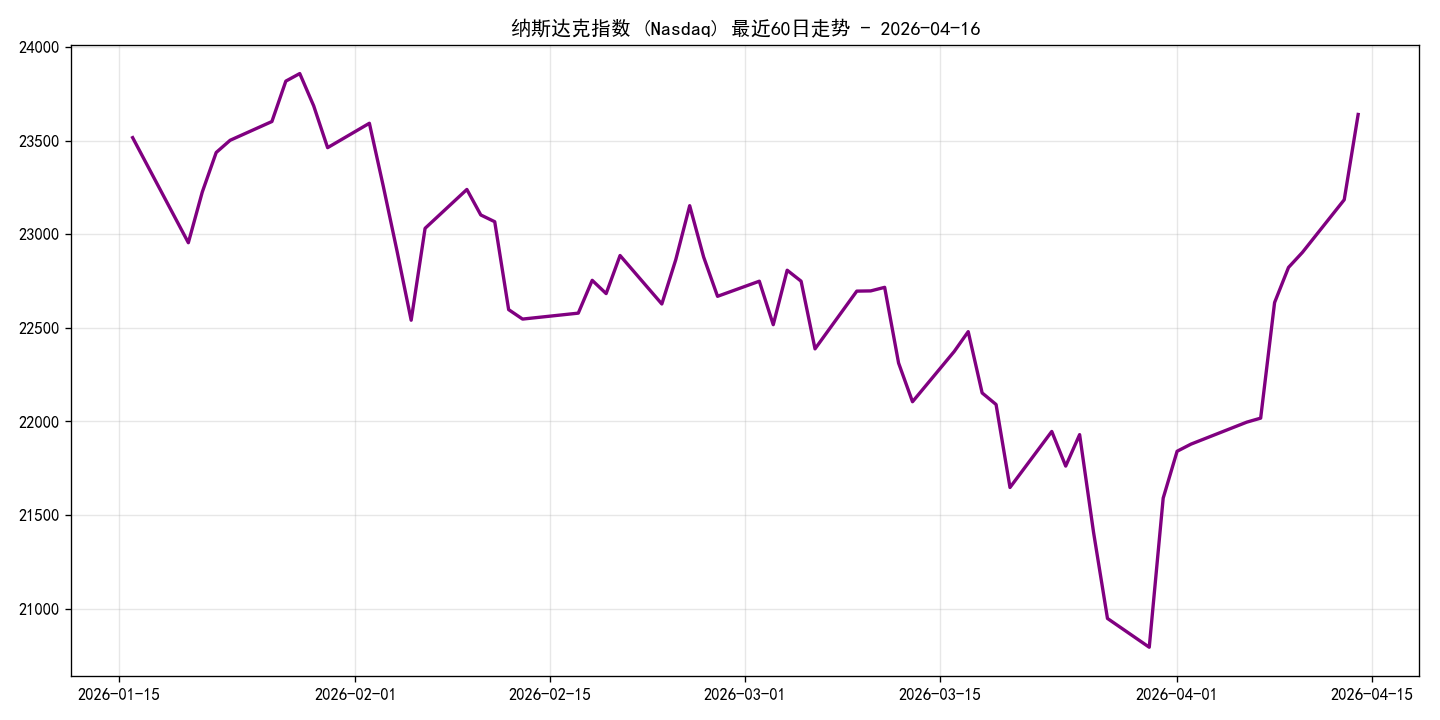
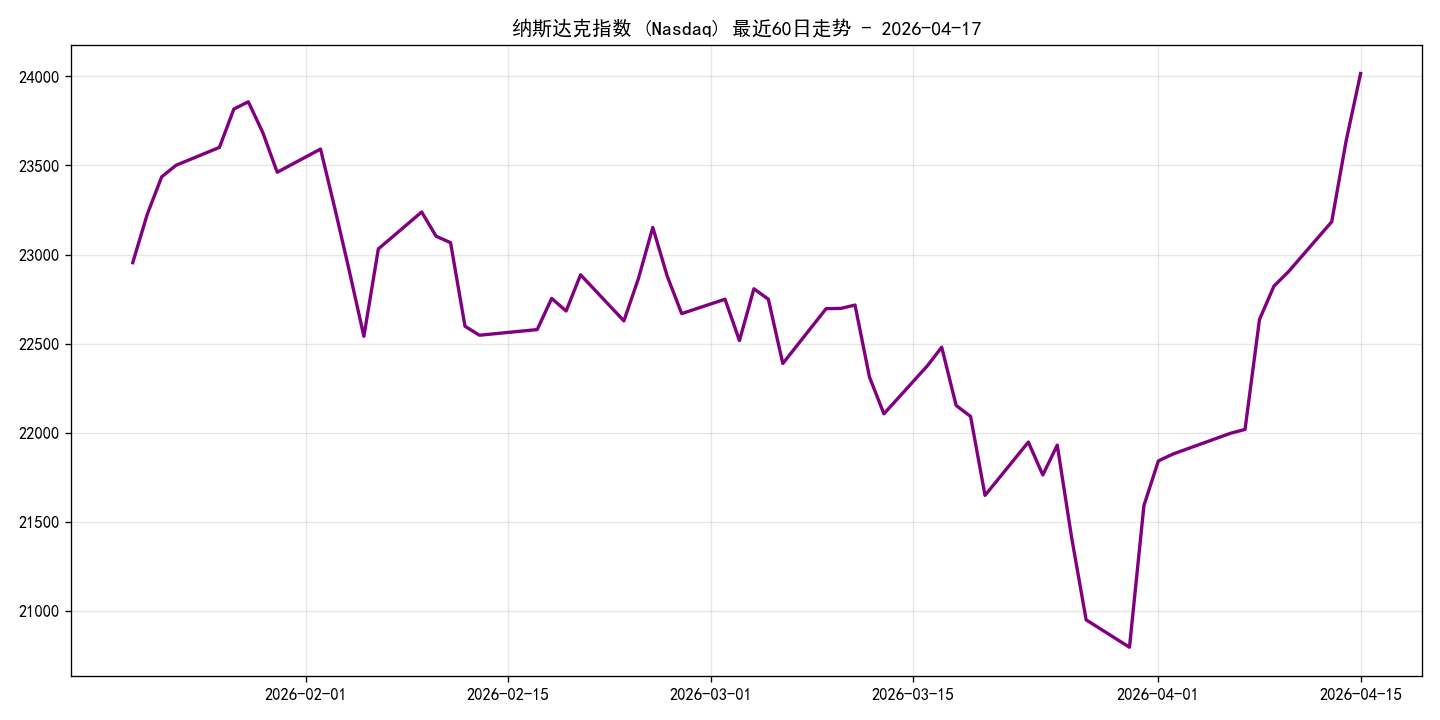
Auto: Daily US-share Recap Update 2026-04-16

diff --git a/usshare_recap.html b/usshare_recap.html
@@ -3,7 +3,7 @@
 <head>
     <meta charset="UTF-8">
     <meta name="viewport" content="width=device-width, initial-scale=1.0">
-    <title>美股收盘复盘 - 2026-04-16</title>
+    <title>美股收盘复盘 - 2026-04-17</title>
     <style>
         body { font-family: sans-serif; padding: 20px; line-height: 1.6; max-width: 800px; margin: 0 auto; background: #f9f9f9; }
         .card { background: white; padding: 20px; border-radius: 12px; shadow: 0 4px 10px rgba(0,0,0,0.1); }
@@ -15,10 +15,10 @@
 </head>
 <body>
     <div class="card">
-        <h1>美股收盘复盘 (2026-04-16)</h1>
+        <h1>美股收盘复盘 (2026-04-17)</h1>
         <div class="stat">
-            纳斯达克 (Nasdaq)：23639.08 
-            <span class="up">(+1.96%)</span>
+            纳斯达克 (Nasdaq)：24016.02 
+            <span class="up">(+1.59%)</span>
         </div>
         <p>美股上一交易日收盘呈 <strong>上涨</strong> 态势。</p>
         <img src="usshare_recap_trend.png" alt="Trend">
